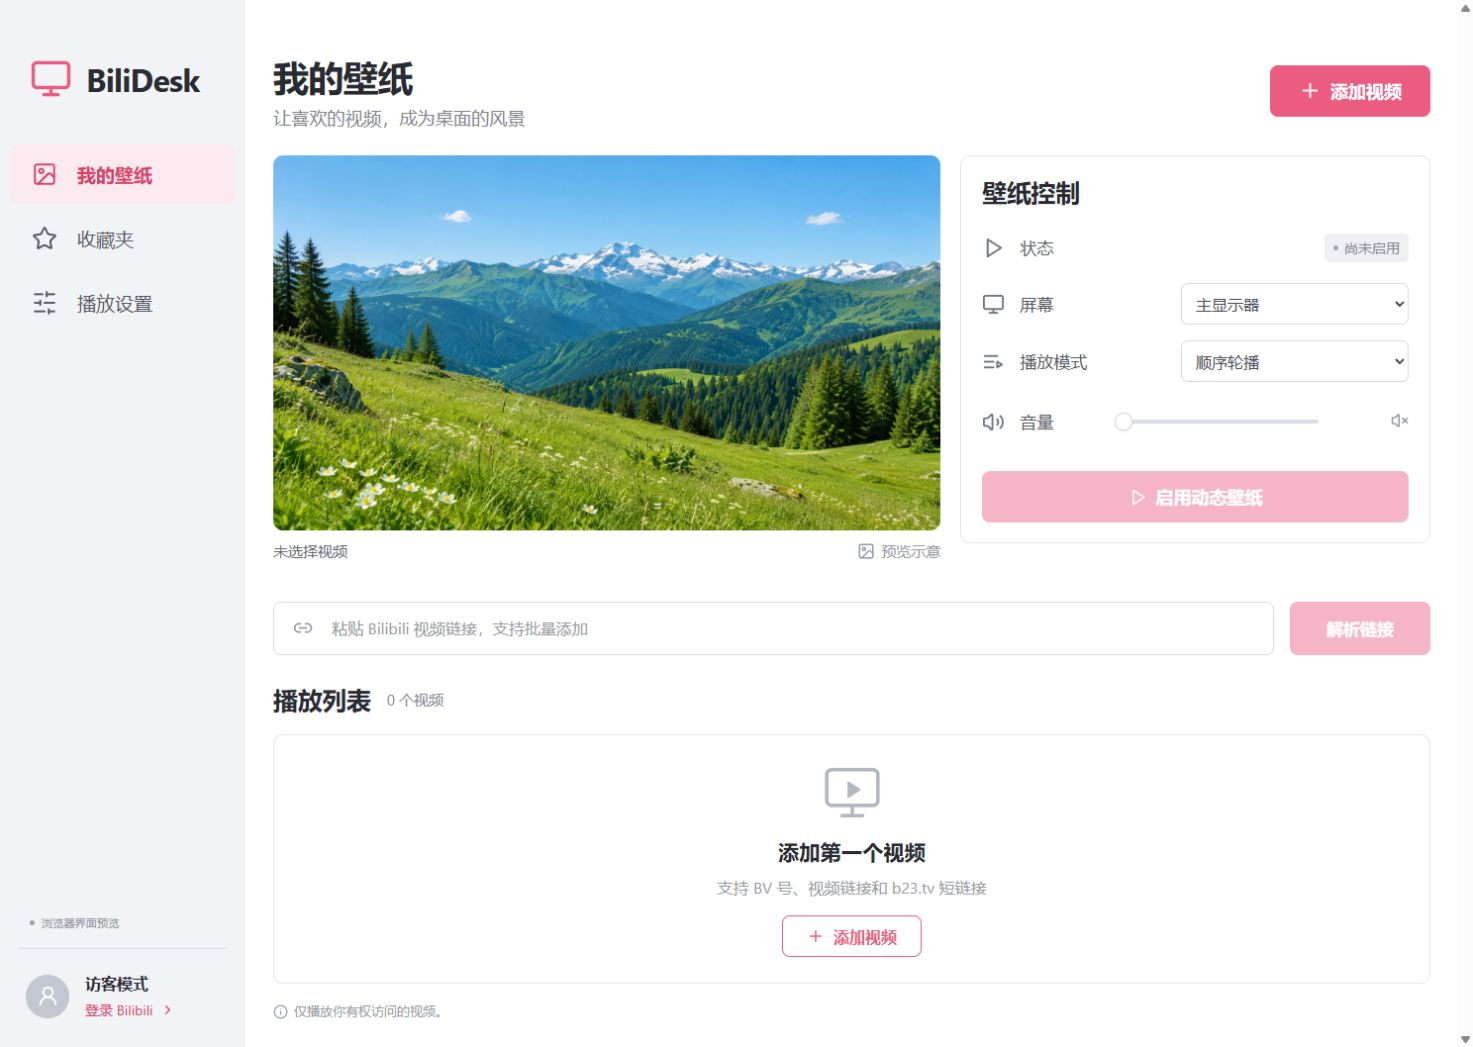
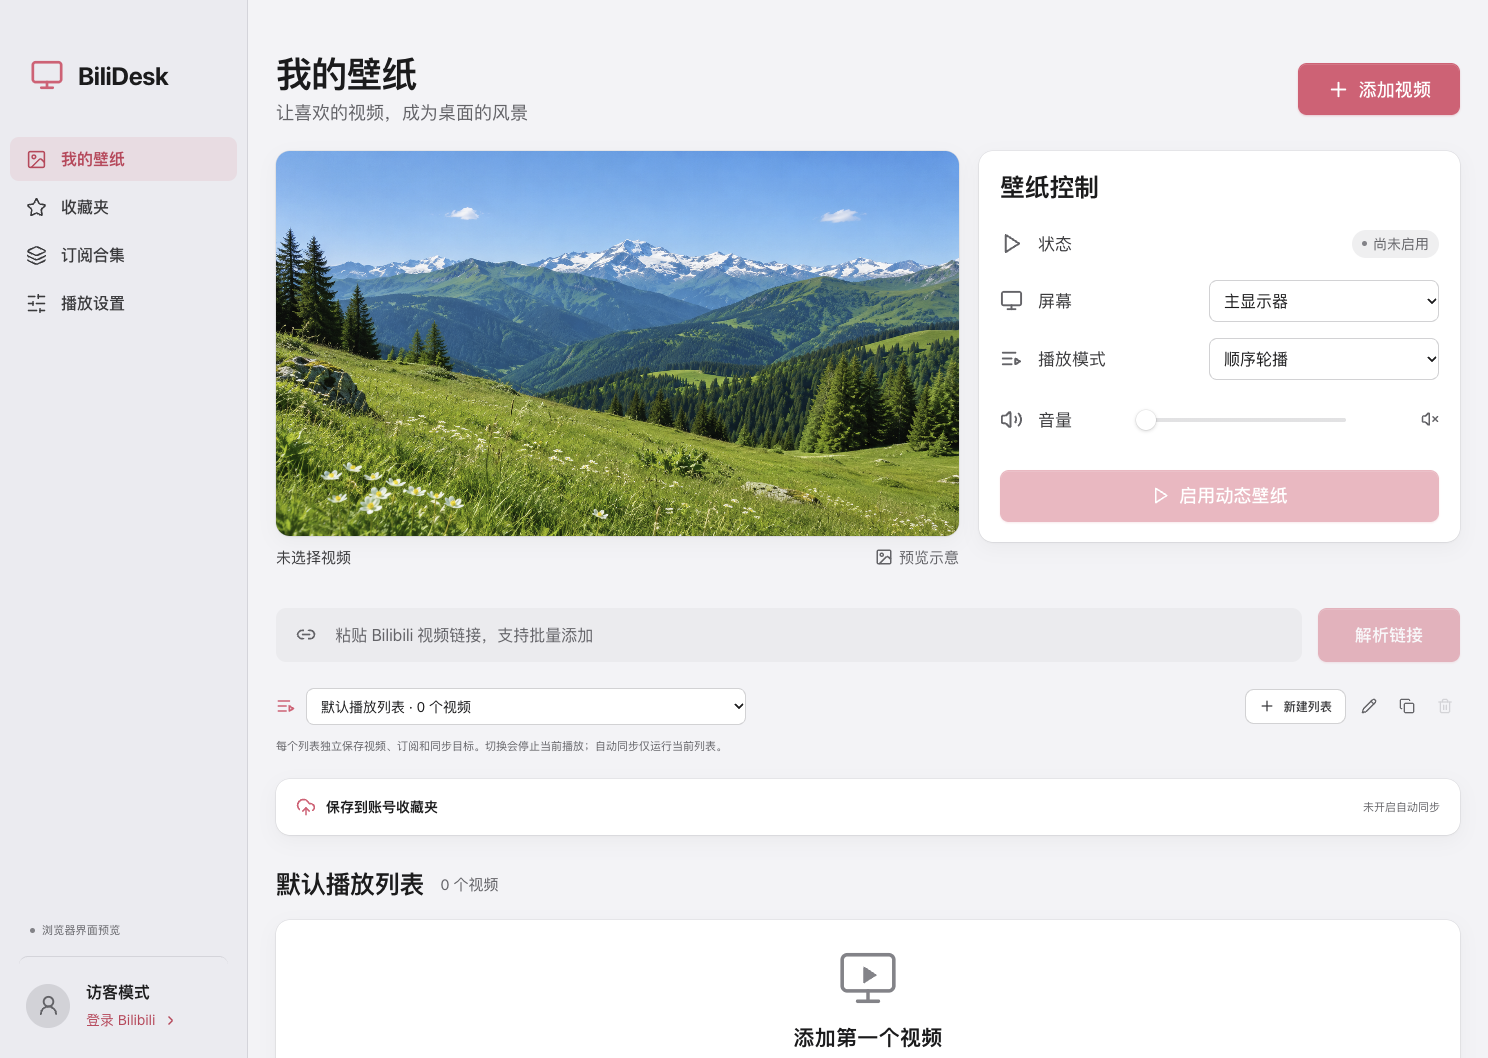
release: prepare v0.6.0
- Bump version to 0.6.0; the About section now reads the version from
  package.json instead of a hard-coded string.
- README (EN/ZH): v0.6.0 download links, macOS Apple Silicon status,
  Gatekeeper first-launch steps, native-feeling interface feature,
  packaged-check notes for macOS.
- Replace the desktop screenshot with the redesigned UI and add a dark
  variant shown to dark-mode readers via <picture>.
- Guide: macOS DMG install path.

diff --git a/src/App.tsx b/src/App.tsx
@@ -35,6 +35,7 @@ import {
   Layers,
 } from 'lucide-react';
 import { api, duration, qualityName } from './api';
+import { version } from '../package.json';
 import type { Snapshot, Settings, Stream, Folder, Favorite, AddResult } from './types';
 import { Modal } from './Modal';
 import { Login } from './Login';
@@ -1074,7 +1075,7 @@ export default function App() {
             <div className="about">
               <Monitor size={23} />
               <strong>BiliDesk</strong>
-              <span>0.5.1</span>
+              <span>{version}</span>
               <p>为喜欢的画面，留一个位置。</p>
               <small>非 Bilibili 官方客户端 · Windows / macOS</small>
             </div>

diff --git a/README.md b/README.md
@@ -3,12 +3,15 @@
   <h1>BiliDesk</h1>
   <p>Your favorite Bilibili videos, on your desktop.</p>
   <p><strong>English</strong> · <a href="README.zh-CN.md">简体中文</a></p>
-  <p><a href="https://github.com/Cance1ed/BiliDesk/releases/tag/v0.5.1">Download preview</a> · <a href="#getting-started">Getting started</a> · <a href="https://github.com/Cance1ed/BiliDesk/issues">Report an issue</a></p>
+  <p><a href="https://github.com/Cance1ed/BiliDesk/releases/tag/v0.6.0">Download preview</a> · <a href="#getting-started">Getting started</a> · <a href="https://github.com/Cance1ed/BiliDesk/issues">Report an issue</a></p>
 </div>
 
 An Electron live-wallpaper app with Bilibili playlists, favorite-folder subscriptions, collection imports, and synchronized portrait-video tiling. The current application interface is in Simplified Chinese.
 
-![BiliDesk desktop interface](docs/screenshot-desktop.png)
+<picture>
+  <source media="(prefers-color-scheme: dark)" srcset="docs/screenshot-desktop-dark.png" />
+  <img src="docs/screenshot-desktop.png" alt="BiliDesk desktop interface" />
+</picture>
 
 ## Features
 
@@ -19,6 +22,7 @@ An Electron live-wallpaper app with Bilibili playlists, favorite-folder subscrip
 - **Subscribed collections:** browse collections saved by your account; import entire collections or select videos across pages.
 - **Save playlists to favorites:** create a new folder (private by default) or explicitly choose an existing folder for append-only saving. Same-name creation is rejected; existing folders and their contents are never replaced or deleted.
 - **Portrait tiling:** automatically repeat portrait video across the desktop, typically three columns on a 16:9 display, or select 2–8 columns. All tiles share one decoded video and audio track.
+- **Native-feeling interface:** a macOS-style design that follows the system light/dark appearance, with a translucent sidebar on macOS and short, interruptible motion that respects Reduce Motion, Reduce Transparency, and Increase Contrast.
 - **Desktop controls:** sequential/shuffle/single looping, display selection, volume, fill/fit modes, timed switching, tray controls, lock/sleep pause, and optional battery pause.
 
 ![Multiple playlists and new favorite folders, using simulated account data](docs/screenshot-playlists.png)
@@ -29,15 +33,16 @@ Tiling uses actual video dimensions and preserves aspect ratio; slight cropping 
 
 ## Download & platform status
 
-**[Download Windows x64 v0.5.1](https://github.com/Cance1ed/BiliDesk/releases/tag/v0.5.1)** — early preview; SHA-256 checksums are attached to the release.
+**[Download v0.6.0 for macOS (Apple Silicon)](https://github.com/Cance1ed/BiliDesk/releases/tag/v0.6.0)** · **[Windows x64 (v0.5.1)](https://github.com/Cance1ed/BiliDesk/releases/tag/v0.5.1)** — early previews; SHA-256 checksums are attached to each release.
 
-| Platform                                    | Status                                                                                 |
-| ------------------------------------------- | -------------------------------------------------------------------------------------- |
-| Windows 11 x64                              | Installer built; native attachment, playback, full desktop coverage, and tiling tested |
-| Windows 10 / mixed-DPI multi-monitor setups | Not fully validated                                                                    |
-| macOS Apple Silicon / Intel                 | Adapter and build configuration included; no verified Mac release yet                  |
+| Platform                                    | Status                                                                                                     |
+| ------------------------------------------- | ---------------------------------------------------------------------------------------------------------- |
+| macOS Apple Silicon                         | v0.6.0 DMG built and tested: desktop layering below Finder icons, playback, portrait tiling, subscriptions |
+| Windows 11 x64                              | v0.5.1 installer tested; the v0.6.0 Windows build will follow from a Windows machine                       |
+| macOS Intel                                 | Not built or tested                                                                                        |
+| Windows 10 / mixed-DPI multi-monitor setups | Not fully validated                                                                                        |
 
-Installers are unsigned. macOS signing and notarization are not configured. Exit the previous version from the tray before upgrading; local configuration is retained.
+Installers are unsigned, and the macOS app is not notarized. On first launch, macOS will block it: Control-click **BiliDesk** in Applications, choose **Open**, then confirm (or use **System Settings → Privacy & Security → Open Anyway**). Exit the previous version from the tray before upgrading; local configuration is retained.
 
 ## Getting started
 
@@ -89,7 +94,7 @@ npm run test:playback
 node scripts/smoke.mjs --packaged --playback --portrait
 ```
 
-Live/playback checks use public Bilibili content and isolated temporary data. Playback tests temporarily attach a wallpaper and restore the desktop afterward. Portrait tests use original local synthetic videos. Run packaged checks from the repository root after building the Windows package.
+Live/playback checks use public Bilibili content and isolated temporary data. Playback tests temporarily attach a wallpaper and restore the desktop afterward. Portrait tests use original local synthetic videos. Run packaged checks from the repository root after building a package; set `BILIDESK_RELEASE_DIR` if the build output is not in `release/`. On macOS the playback check also asserts the wallpaper sits between the desktop and its icons.
 
 See [verification notes](docs/verification.md), the [detailed Chinese guide](docs/guide.zh-CN.md), and the desktop build configuration under `.github` for more information.
 
@@ -100,7 +105,7 @@ See [verification notes](docs/verification.md), the [detailed Chinese guide](doc
 - Cookies stay in Electron's main process and are encrypted by the OS through `safeStorage`. If encryption is unavailable, login lasts only for the current session.
 - Data locations: Windows `%APPDATA%/BiliDesk`; macOS `~/Library/Application Support/BiliDesk`. `library.json` contains playlists, settings, subscriptions, and sync targets; `account.enc` contains encrypted credentials.
 - Bilibili web APIs may change or restrict requests. Private, paid, regional, and membership-only content remains subject to account permissions; access controls are not bypassed.
-- Public APIs, Windows playback, and tiling were tested. **Real-account QR confirmation, private/VIP content, and favorite writes still require account acceptance testing.** Writes have been tested with simulated transport, not a personal account.
+- Public APIs, playback, and tiling were tested on Windows 11 and macOS (Apple Silicon). **Real-account QR confirmation, private/VIP content, and favorite writes still require account acceptance testing.** Writes have been tested with simulated transport, not a personal account.
 - One selected display is supported at a time. Offline caching, live streams, bangumi links, HDR/HEVC, and pause for foreground full-screen apps are not included.
 - The Alpine preview is AI-generated illustrative artwork, not a preloaded Bilibili video. Fixture screenshots/videos are labeled synthetic.
 

diff --git a/README.zh-CN.md b/README.zh-CN.md
@@ -3,12 +3,15 @@
   <h1>BiliDesk</h1>
   <p>让喜欢的 Bilibili 视频，成为桌面的风景。</p>
   <p><a href="README.md">English</a> · <strong>简体中文</strong></p>
-  <p><a href="https://github.com/Cance1ed/BiliDesk/releases/tag/v0.5.1">下载预览版</a> · <a href="#快速开始">快速开始</a> · <a href="https://github.com/Cance1ed/BiliDesk/issues">反馈问题</a></p>
+  <p><a href="https://github.com/Cance1ed/BiliDesk/releases/tag/v0.6.0">下载预览版</a> · <a href="#快速开始">快速开始</a> · <a href="https://github.com/Cance1ed/BiliDesk/issues">反馈问题</a></p>
 </div>
 
 基于 Electron 的动态壁纸应用，支持 Bilibili 播放列表、收藏夹订阅、合集导入和同步竖屏三联 / N 联效果。当前应用界面为简体中文。
 
-![BiliDesk 桌面界面](docs/screenshot-desktop.png)
+<picture>
+  <source media="(prefers-color-scheme: dark)" srcset="docs/screenshot-desktop-dark.png" />
+  <img src="docs/screenshot-desktop.png" alt="BiliDesk 桌面界面" />
+</picture>
 
 ## 功能
 
@@ -19,6 +22,7 @@
 - **订阅合集**：读取账号收藏 / 订阅的合集，整合集导入或跨页勾选部分视频。
 - **保存到账号收藏夹**：可以新建收藏夹（默认私密），或明确选择已有收藏夹追加保存；同名新建会被拦截，不复用、覆盖或删除已有收藏夹及其内容。
 - **竖屏自动联屏**：普通 16:9 屏幕上自动三联，也可指定 2～8 联；各列共用一个视频解码器和一份声音。
+- **原生质感界面**：macOS 风格设计，跟随系统浅色 / 深色外观；macOS 上侧栏为半透明材质；动效短促、可随时打断，并遵循「减弱动态效果」「降低透明度」「增强对比度」设置。
 - **桌面控制**：顺序 / 随机 / 单曲循环，屏幕选择、音量、画面适配、定时切换、托盘控制、锁屏 / 睡眠暂停、可选电池暂停。
 
 ![多播放列表与新建收藏夹，使用模拟账号数据](docs/screenshot-playlists.png)
@@ -29,15 +33,16 @@
 
 ## 下载与平台状态
 
-**[下载 Windows x64 v0.5.1](https://github.com/Cance1ed/BiliDesk/releases/tag/v0.5.1)**：早期预览版，Release 附 SHA-256 校验文件。
+**[下载 macOS（Apple 芯片）v0.6.0](https://github.com/Cance1ed/BiliDesk/releases/tag/v0.6.0)** · **[Windows x64（v0.5.1）](https://github.com/Cance1ed/BiliDesk/releases/tag/v0.5.1)**：早期预览版，各 Release 均附 SHA-256 校验文件。
 
-| 平台                        | 状态                                                 |
-| --------------------------- | ---------------------------------------------------- |
-| Windows 11 x64              | 已构建安装包，实测桌面挂载、播放、完整覆盖和竖屏联屏 |
-| Windows 10 / 多屏混合 DPI   | 尚未完整验证                                         |
-| macOS Apple Silicon / Intel | 已有适配和构建配置，尚无已验证的 Mac 发布包          |
+| 平台                      | 状态                                                                      |
+| ------------------------- | ------------------------------------------------------------------------- |
+| macOS Apple 芯片          | v0.6.0 DMG 已构建并实测：壁纸位于桌面图标之下、播放、竖屏联屏、收藏夹订阅 |
+| Windows 11 x64            | v0.5.1 安装包已实测；v0.6.0 Windows 版将在 Windows 设备上构建后补充       |
+| macOS Intel               | 尚未构建和测试                                                            |
+| Windows 10 / 多屏混合 DPI | 尚未完整验证                                                              |
 
-安装包当前未签名，macOS 签名与公证尚未配置。升级前从托盘退出旧版，本机配置会保留。
+安装包未签名，macOS 版未经公证。首次打开时 macOS 会拦截：在「应用程序」中按住 Control 点按 **BiliDesk**，选择「打开」并确认（或在「系统设置 → 隐私与安全性」中点「仍要打开」）。升级前从托盘退出旧版，本机配置会保留。
 
 ## 快速开始
 
@@ -89,7 +94,7 @@ npm run test:playback
 node scripts/smoke.mjs --packaged --playback --portrait
 ```
 
-联网 / 播放测试使用公开 Bilibili 内容及隔离临时数据，会短暂挂载壁纸并在结束后恢复桌面。竖屏测试使用原创本地合成视频。打包测试需先构建 Windows 包，并从仓库根目录执行。
+联网 / 播放测试使用公开 Bilibili 内容及隔离临时数据，会短暂挂载壁纸并在结束后恢复桌面。竖屏测试使用原创本地合成视频。打包测试需先构建安装包，并从仓库根目录执行；构建输出不在 `release/` 时设置 `BILIDESK_RELEASE_DIR`。在 macOS 上，播放测试还会检查壁纸窗口位于桌面与桌面图标之间。
 
 更多信息见[验证记录](docs/verification.md)、[详细使用说明](docs/guide.zh-CN.md)及 `.github` 下的桌面构建配置。
 
@@ -100,7 +105,7 @@ node scripts/smoke.mjs --packaged --playback --portrait
 - Cookie 留在 Electron 主进程，通过 `safeStorage` 使用系统加密；系统加密不可用时只保留当次登录。
 - 数据目录：Windows `%APPDATA%/BiliDesk`；macOS `~/Library/Application Support/BiliDesk`。`library.json` 保存列表、设置、订阅与同步目标；`account.enc` 保存加密凭据。
 - Bilibili 网页接口可能变更或限制请求；私有、付费、地区限制和会员内容仍受账号权限约束，应用不绕过访问控制。
-- 已验证公开接口、Windows 播放及联屏。**真实账号扫码确认、私有 / VIP 内容及收藏写入仍需账号验收**；收藏写入使用模拟传输测试，尚未使用个人账号实测。
+- 已在 Windows 11 和 macOS（Apple 芯片）上验证公开接口、播放及联屏。**真实账号扫码确认、私有 / VIP 内容及收藏写入仍需账号验收**；收藏写入使用模拟传输测试，尚未使用个人账号实测。
 - 一次支持一个所选显示器，不包含离线缓存、直播、番剧、HDR / HEVC、前台全屏应用自动暂停。
 - 阿尔卑斯山预览是 AI 生成的示意素材，不是预置 Bilibili 视频。测试截图及测试片已标注为合成数据。
 

diff --git a/docs/guide.zh-CN.md b/docs/guide.zh-CN.md
@@ -6,7 +6,7 @@
 
 ## 使用
 
-Windows 安装包：`release/BiliDesk-0.5.1-win-x64.exe`。也可以直接运行 `release/win-unpacked/BiliDesk.exe`，免安装版本需保留整个目录。升级前从托盘退出旧版；本机列表、设置和登录数据会保留。
+macOS（Apple 芯片）：`release/BiliDesk-0.6.0-mac-arm64.dmg`，拖入「应用程序」；未签名，首次打开需按住 Control 点按并选择「打开」。Windows 安装包：`release/BiliDesk-<版本>-win-x64.exe`，也可以直接运行 `release/win-unpacked/BiliDesk.exe`，免安装版本需保留整个目录。升级前从托盘退出旧版；本机列表、设置和登录数据会保留。
 
 1. 在「我的壁纸」粘贴视频链接或 BV / av 号，点击「解析链接」。支持多行批量添加、b23.tv 短链接、带 `?p=2` 的分 P 链接。
 2. 选中视频，点击预览区播放按钮可点播预览；点击「启用动态壁纸」应用到所选显示器。
